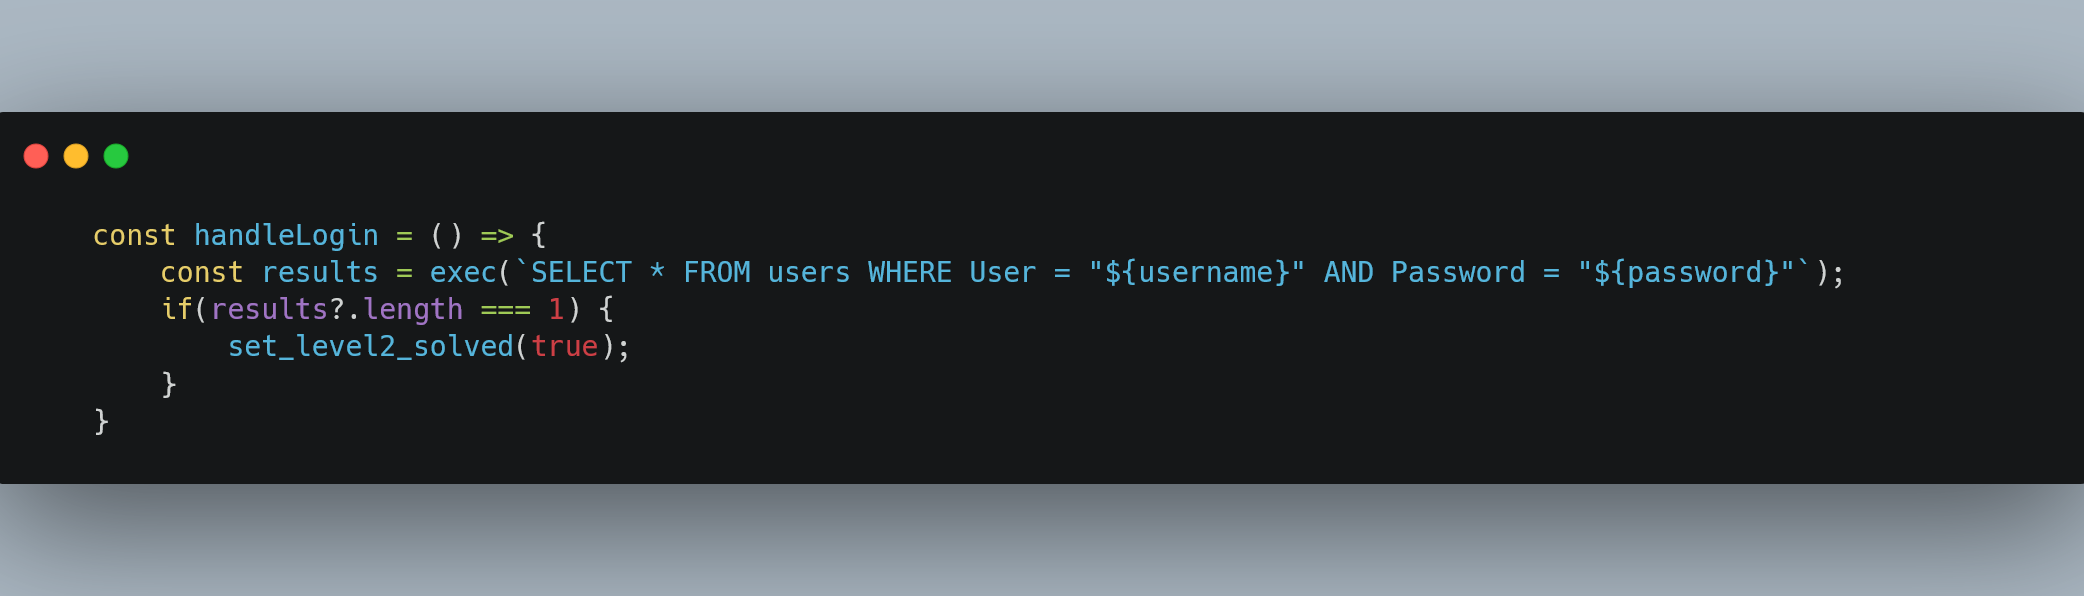
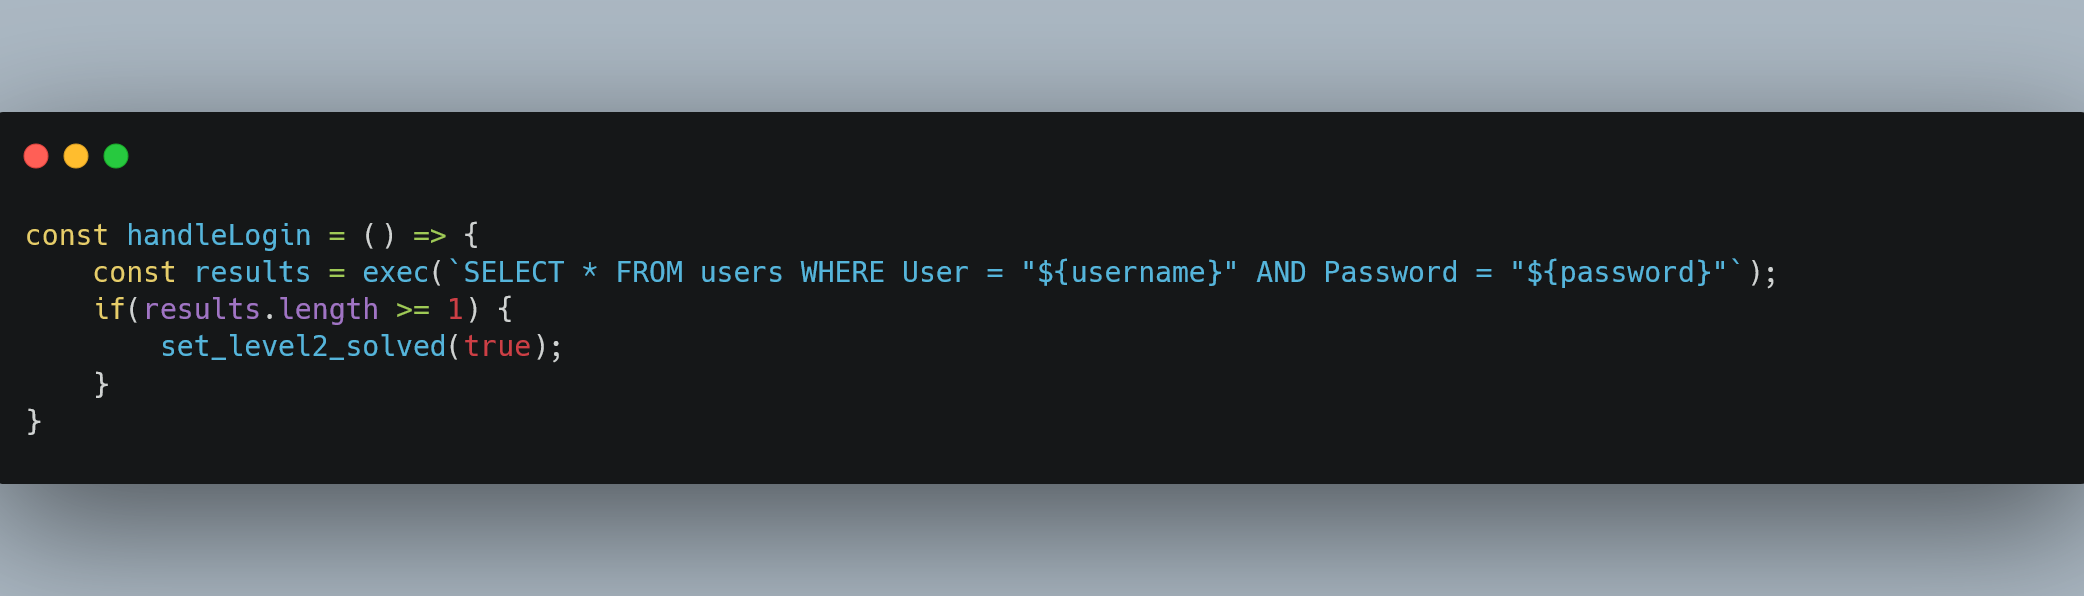
rephrased hint 1. slightly reformatted handleLogin funtion to allow more than one returned row. can be used to show another type of attack that also works

Changed region(s): [[0.0, 0.3624, 0.8733, 0.604]]

diff --git a/src/pages/Level2/Level2.tsx b/src/pages/Level2/Level2.tsx
@@ -13,7 +13,6 @@ import Accordion from '../components/Accoridon';
 import sql_img from '../../images/code/sql_injection.png';
 import initSqlJs from 'sql.js';
 import { Database } from 'sql.js';
-import Input from '../components/Input';
 
 export default function Level2() {
 	const [db, setDb] = useState<Database>();
@@ -57,7 +56,7 @@ export default function Level2() {
 	const handleLogin = (e: React.FormEvent) => {
 		e.preventDefault();
 		const results = exec(`SELECT * FROM users WHERE User = "${username}" AND Password = "${password}"`);
-		if(results?.length === 1) {
+		if(results !== undefined && results?.length >= 1) {
 			setLoginStatus('Login Successful!');
 			set_level2_solved(true);
 		}
@@ -150,7 +149,8 @@ export default function Level2() {
 			)}
 
 			<Accordion title="Show Code" content="" imageUrl={sql_img} />
-			<Accordion title="Hint1" content="Try to think of a way to make the SQL query condition always true." /* Write Hint here */ />
+			<Accordion title="Hint1" content="If the SQL query returns at least one row, the login will be successful. 
+			Try to think of a way to make the SQL query condition always true." /* Write Hint here */ />
 			<Accordion title="Hint2" content='You can use closing quotes " to end the quotes for username. Then you can put any SQL query after this. Finally you can add
 			a "--" to comment out the rest of the SQL query (AND Password = "${password}"). Putting it together: " {YOUR SQL ATTACK HERE} --' /* Write Hint here */ />
 		</div>
